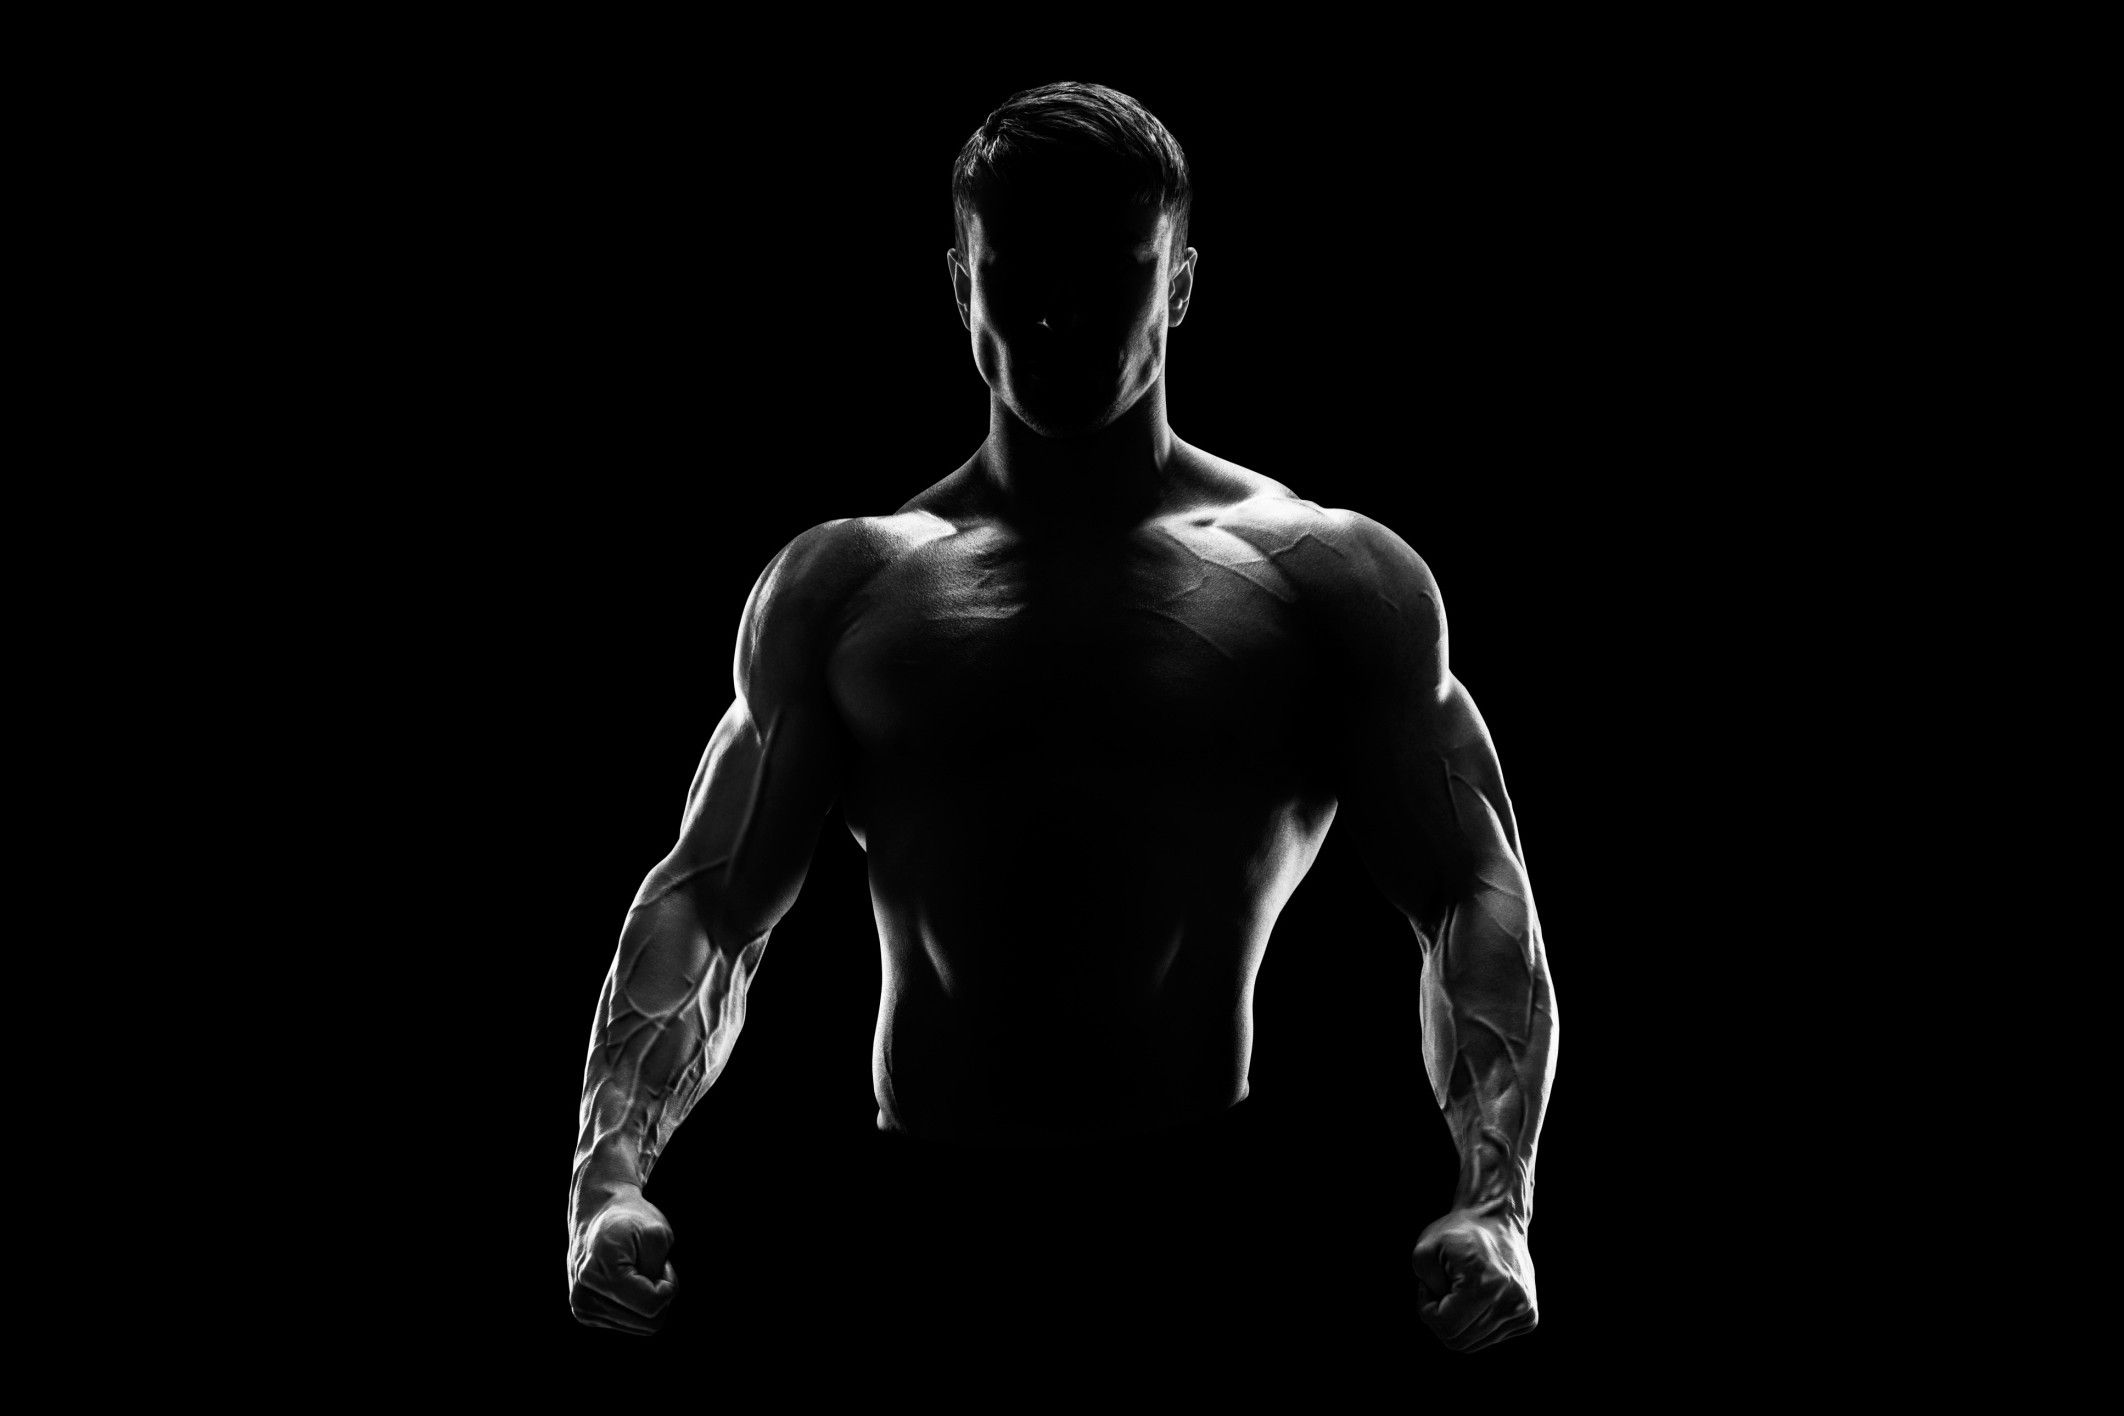
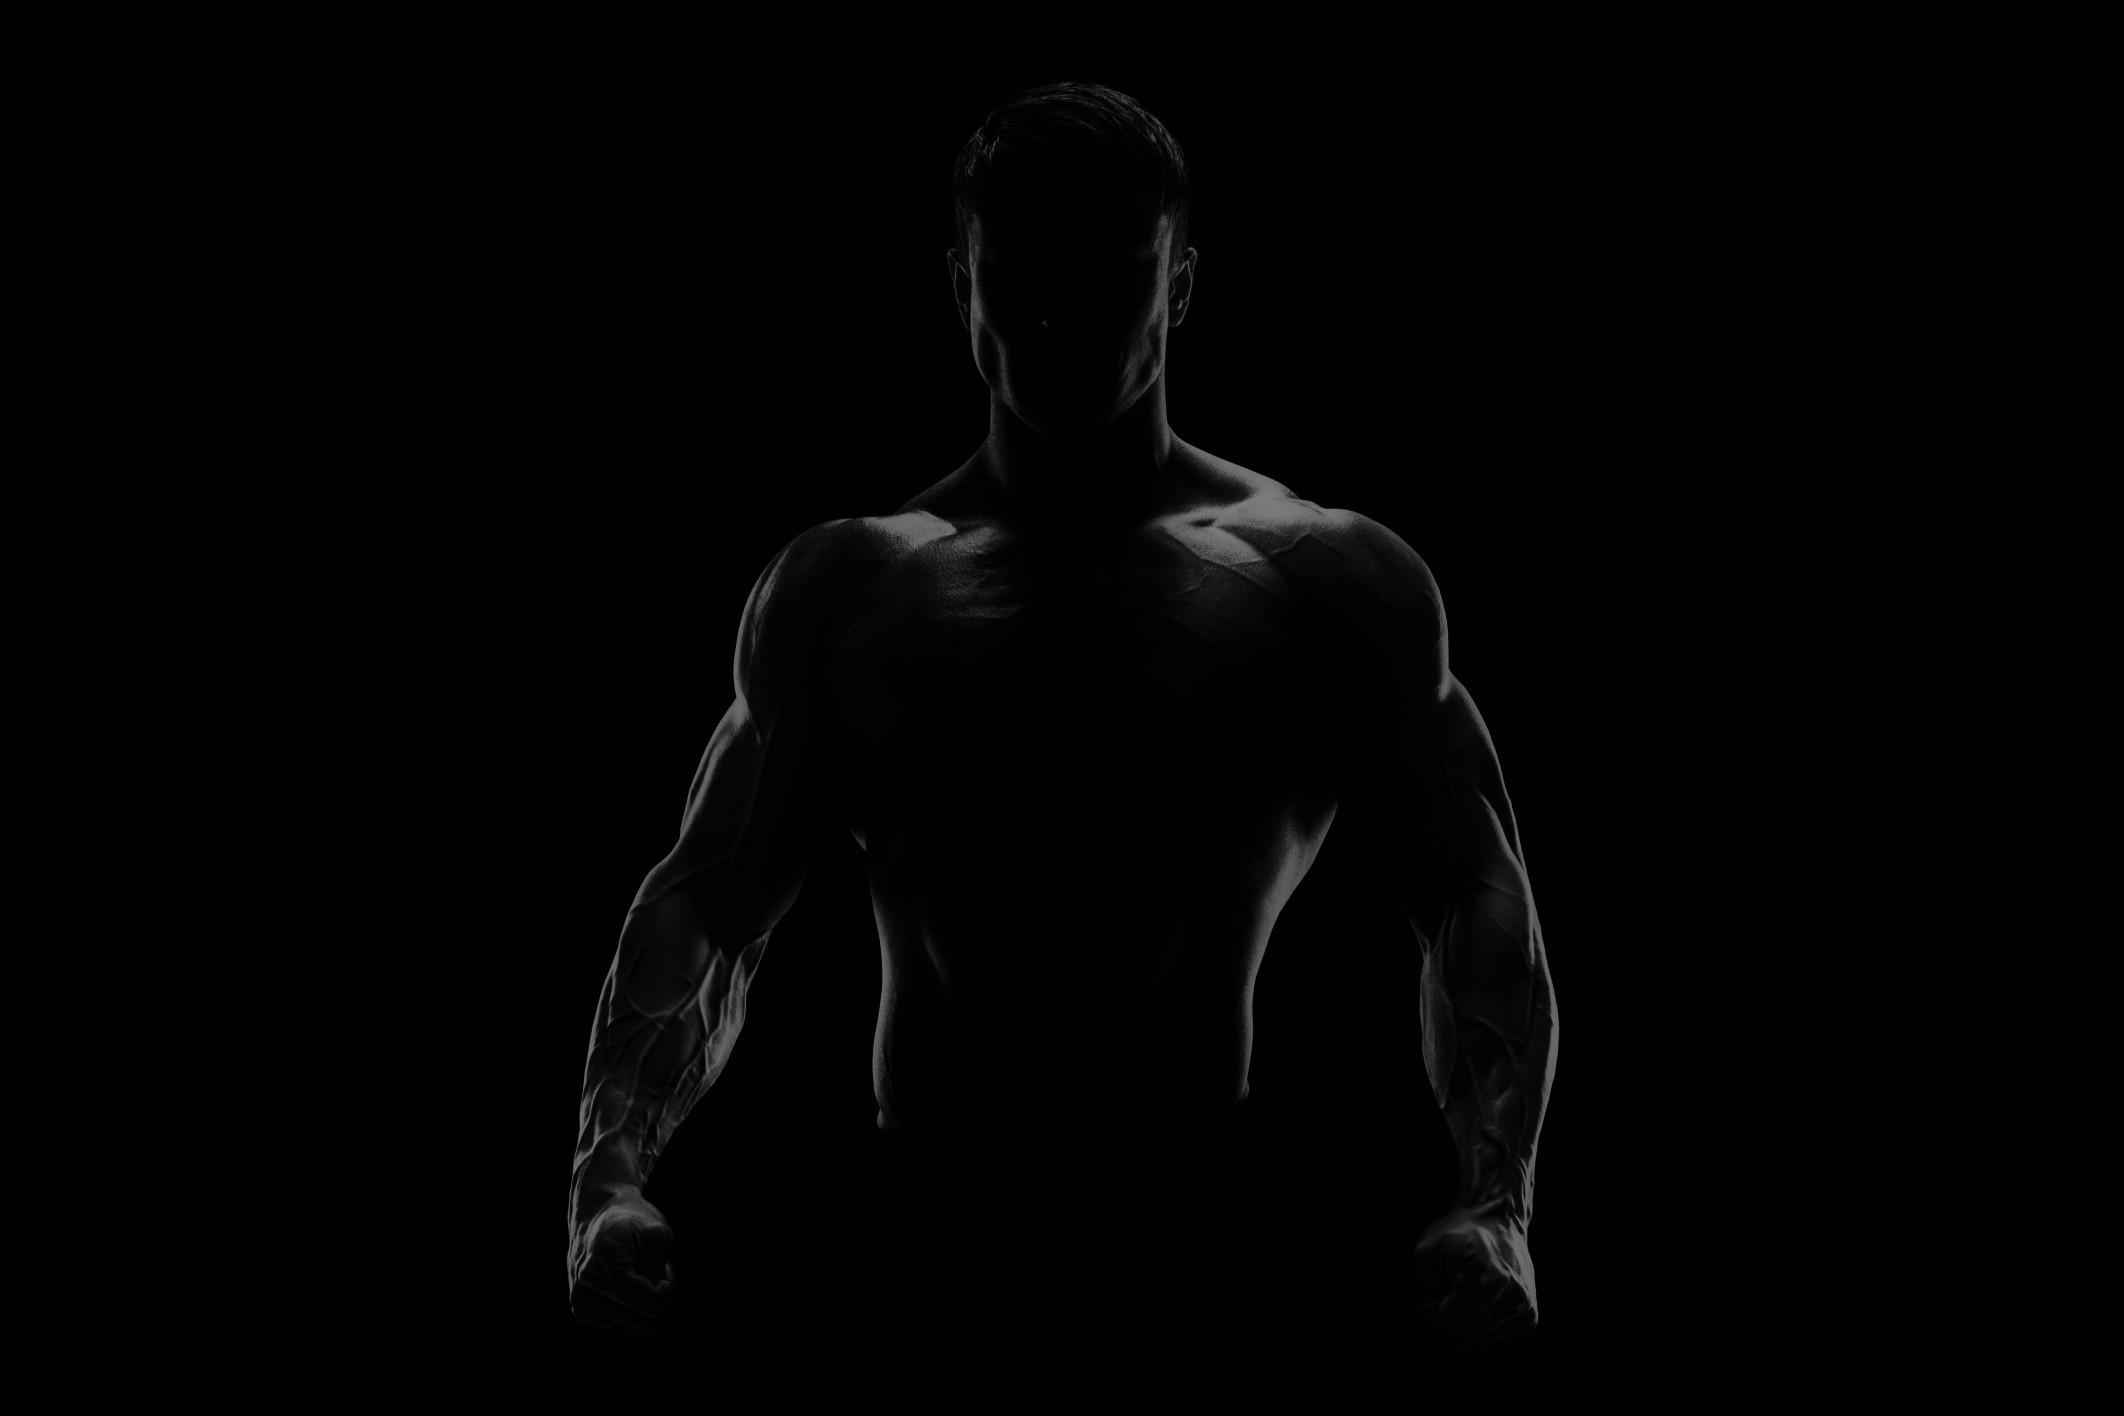
second pg

diff --git a/lib/screens/login_scren.dart b/lib/screens/login_scren.dart
@@ -1,6 +1,8 @@
+import 'package:facebook/screens/home_page.dart';
 import 'package:flutter/cupertino.dart';
 import 'package:flutter/material.dart';
 import 'package:google_fonts/google_fonts.dart';
+
 class LoginScreen extends StatefulWidget {
   const LoginScreen({Key? key}) : super(key: key);
 
@@ -9,17 +11,21 @@ class LoginScreen extends StatefulWidget {
 }
 
 class _LoginScreenState extends State<LoginScreen> {
-  final double height=MediaQuery.of(context).size.height;
-  final  double width=MediaQuery.of(context).size.width;
   @override
   Widget build(BuildContext context) {
+    final double height=MediaQuery.of(context).size.height;
+    final  double width=MediaQuery.of(context).size.width;
     return Scaffold(
-      backgroundColor: Colors.black,
+
+      backgroundColor: Colors.black.withOpacity(0.07),
       body: Stack(
         children: [
         Container(
+
           decoration: BoxDecoration(
-            image: DecorationImage(image: AssetImage("assets/images/bkc.jpg"),fit: BoxFit.cover
+
+
+            image: DecorationImage(image: AssetImage("assets/images/bkc.jpg"),fit: BoxFit.cover,
             )
           ),
         ),
@@ -76,20 +82,35 @@ class _LoginScreenState extends State<LoginScreen> {
                 SizedBox(height: 30,),
                 TextButton(
 
-                    onPressed: (){},
+                    onPressed: (){
+                      Navigator.push(context, MaterialPageRoute(builder: (context)=>HomePagescreen()
+                      )
+                      );
+
+                    },
                     child: Container(
                       height: 50,
-                       width: width*0.07,
+
                       decoration: BoxDecoration(
 
-                        borderRadius: BorderRadius.circular(25),
-                      ),
+                        borderRadius: BorderRadius.circular(25),color: Color(0xff2e86c1),
 
-                    ))
+                      ),
+                      child:
+                      Center(
+                        child: Text("Try now",style:
+                        TextStyle(color: Color(0xfffdfefe),
+                          fontSize: 20,
+                          fontWeight: FontWeight.bold
+                        ),
+                        ),
+                      ),
+                    )
+                )
               ],
             ),
           ),
-          Container()
+
         ],
       ),
     );

diff --git a/lib/screens/home_page.dart b/lib/screens/home_page.dart
@@ -1,0 +1,97 @@
+import 'package:flutter/cupertino.dart';
+import 'package:flutter/material.dart';
+import 'package:google_fonts/google_fonts.dart';
+class HomePagescreen extends StatefulWidget {
+  const HomePagescreen({Key? key}) : super(key: key);
+
+  @override
+  _HomePagescreenState createState() => _HomePagescreenState();
+}
+
+class _HomePagescreenState extends State<HomePagescreen> {
+  @override
+  Widget build(BuildContext context) {
+    final double height=MediaQuery.of(context).size.height;
+    final  double width=MediaQuery.of(context).size.width;
+    return Scaffold(
+     body: Stack(
+       children: [
+         Container(
+           decoration: BoxDecoration(
+
+               image: DecorationImage(image: AssetImage("assets/images/home.jpg"),fit: BoxFit.cover
+               )
+           ),
+         ),
+         Container(
+           height:height ,
+           width: width,
+           color: Colors.black.withOpacity(0.15),
+           child: Column(
+    children: [
+    Center(
+    child: Text.rich(
+
+    TextSpan(
+
+    text: "HARD",
+    style: GoogleFonts.lato(
+    textStyle: const TextStyle(color: Colors.white, letterSpacing: .5, fontSize:26
+
+    ),
+
+
+    ),
+
+    children: [
+    TextSpan(
+    text: "  ELEMENT",
+    style: GoogleFonts.lato(
+    textStyle: TextStyle(color: Colors.blue, letterSpacing: .5, fontSize:26
+    ),
+    ),
+
+    ),
+    ]
+
+
+    ),
+
+
+    ),
+    ),
+      Column(
+        crossAxisAlignment: CrossAxisAlignment.start,
+        children: [
+          Text("About You",
+            style: TextStyle(fontSize: 40,color: Colors.white,fontWeight: FontWeight.bold),
+          ),
+          SizedBox(height: 5,),
+          Text("we want to know more about you,follow the next\nsetps to commplete the information",style: TextStyle(color: Colors.white),)
+        ],
+      ),
+      SizedBox(height: 30,),
+      Row(
+        children: [
+          Container(
+            height: height*0.5,
+            width: width*0.04,
+            child: T,
+          )
+
+        ],
+      )
+
+      ]
+           ),
+
+
+         ),
+
+
+       ],
+     ),
+
+    );
+  }
+}

diff --git a/lib/main.dart b/lib/main.dart
@@ -13,9 +13,9 @@ class MyApp extends StatelessWidget {
     return MaterialApp(
       title: "workout",
       themeMode: ThemeMode.dark,theme: ThemeData.dark().copyWith(
-      primaryColor: Colors.blue,
-      hintColor: Colors.white,
-      textTheme: const TextTheme(subtitle1: TextStyle(color: Colors.white))
+        primaryColor: Colors.blue,
+        hintColor: Colors.white,
+        textTheme: const TextTheme(subtitle1: TextStyle(color: Colors.white))
     ),
 debugShowCheckedModeBanner: false,
       home: LoginScreen(),
